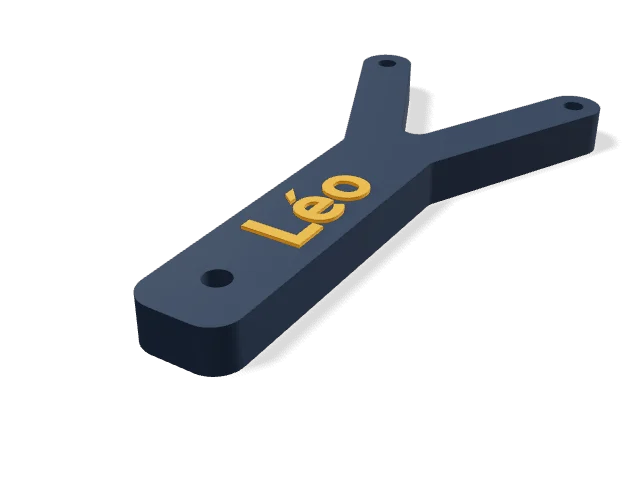
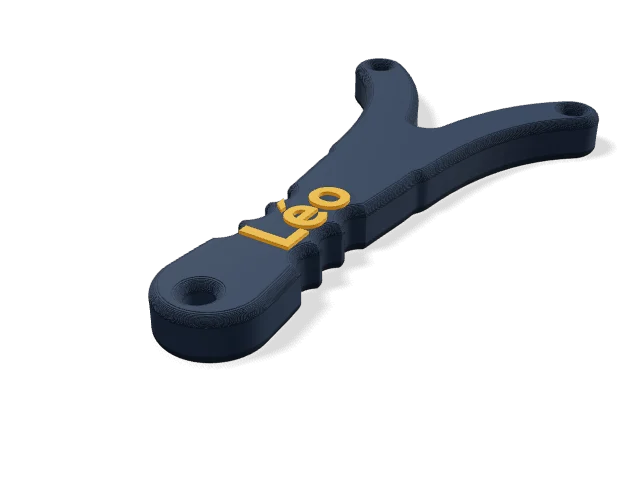
feat: estilingue com forquilha em curva suave, cabo com cintura, marcas de dedo e arestas arredondadas (#238)
Braços em curva quadrática com concordância suave, cabo por corrente de círculos com cintura ajustável, concavidades de dedo opcionais (desligam sozinhas se o cabo é estreito demais, com aviso, e o nome nunca invade) e arestas arredondadas nas duas faces.

diff --git a/src/geometry/models/slingshot.ts b/src/geometry/models/slingshot.ts
@@ -1,7 +1,8 @@
 import { bedMm } from "../bed";
 import type { CS } from "../manifold";
 import { fitInto, outerOnly, scoped } from "../shape2d";
-import { roundedRect, slab, solidMesh, type ModelCtx, type ModelOutput } from "./common";
+import { bevelPrism } from "./bevel";
+import { slab, solidMesh, type ModelCtx, type ModelOutput } from "./common";
 
 export type SlingshotParams = {
   handleLen: number;
@@ -10,6 +11,10 @@ export type SlingshotParams = {
   /** Distância entre as pontas da forquilha (de centro a centro). */
   spread: number;
   armW: number;
+  /** Cintura do cabo: largura no meio em relação à das pontas (1 = reto). */
+  waist: number;
+  /** Marcas de dedo (concavidades) nos lados do cabo. */
+  fingers: boolean;
   thickness: number;
   name: string;
   nameMode: "engraved" | "raised" | "none";
@@ -18,11 +23,14 @@ export type SlingshotParams = {
   nameColor: string;
 };
 
-export const DEFAULT_SLINGSHOT: SlingshotParams = { handleLen: 95, handleW: 30, forkLen: 60, spread: 70, armW: 17, thickness: 14, name: "Léo", nameMode: "raised", depth: 1, color: "#1f2937", nameColor: "#f59e0b" };
+export const DEFAULT_SLINGSHOT: SlingshotParams = { handleLen: 95, handleW: 30, forkLen: 60, spread: 70, armW: 17, waist: 0.8, fingers: true, thickness: 14, name: "Léo", nameMode: "raised", depth: 1, color: "#1f2937", nameColor: "#f59e0b" };
 
 const SEG = 64;
 const TIE_R = 3.2; // furo para amarrar o elástico nas pontas
 const LANYARD_R = 4;
+const FINGER_R = 5.5;
+const FINGER_DEPTH = 3; // quanto a concavidade entra no cabo
+const EDGE = 3; // arredondado das arestas (mm)
 const MIN_ARM = 14;
 const MIN_SPREAD = 25;
 const SMOOTH = 5; // raio de concordância entre o cabo e a forquilha
@@ -38,26 +46,47 @@ export function buildSlingshot(ctx: ModelCtx, p: SlingshotParams): ModelOutput {
     const R = p.armW / 2;
     const yFork = p.handleLen; // onde o cabo vira forquilha
     const tipY = yFork + p.forkLen;
-    const handle = k(k(roundedRect(M, p.handleW, p.handleLen + 2 * R, Math.min(R, p.handleW / 2 - 1))).translate([0, (p.handleLen + 2 * R) / 2 - R]));
+    // cabo: corrente de círculos de raio variável (as pontas largas e a cintura no meio), unidos por cascos
+    const hw = p.handleW / 2;
+    const widthAt = (t: number) => hw * (1 - (1 - p.waist) * Math.sin(Math.PI * Math.min(1, t * 1.05)) ** 1.5); // t: 0 = fundo, 1 = onde vira forquilha
+    const rings = Array.from({ length: 9 }, (_, i) => {
+      const t = i / 8, r = widthAt(t);
+      return k(k(M.CrossSection.circle(r, SEG)).translate([0, hw + t * (p.handleLen - hw)]));
+    });
+    const handle = k(M.CrossSection.union(rings.slice(1).map((c, i) => k(M.CrossSection.hull([rings[i], c])))));
+    // braços em curva suave (quadrática): saem do cabo, abrem e chegam às pontas
     const arm = (sx: number) => {
-      const base = k(k(M.CrossSection.circle(R, SEG)).translate([sx * Math.max(0, p.handleW / 2 - R), yFork]));
-      const tip = k(k(M.CrossSection.circle(R, SEG)).translate([sx * p.spread / 2, tipY]));
-      return k(M.CrossSection.hull([base, tip]));
+      const b0: [number, number] = [sx * hw * 0.55, yFork], t0: [number, number] = [sx * p.spread / 2, tipY], c0: [number, number] = [sx * (hw * 0.6 + (p.spread / 2 - hw * 0.6) * 0.12), yFork + p.forkLen * 0.7];
+      const pts = Array.from({ length: 13 }, (_, i) => {
+        const t = i / 12, u = 1 - t;
+        return [u * u * b0[0] + 2 * u * t * c0[0] + t * t * t0[0], u * u * b0[1] + 2 * u * t * c0[1] + t * t * t0[1]] as [number, number];
+      });
+      const circles = pts.map((q) => k(k(M.CrossSection.circle(R, SEG)).translate(q)));
+      return k(M.CrossSection.union(circles.slice(1).map((c, i) => k(M.CrossSection.hull([circles[i], c])))));
     };
     const raw = k(M.CrossSection.union([handle, arm(-1), arm(1)]));
     // concordância suave entre o cabo e os braços (fecha as quinas de dentro)
-    const body = k(k(raw.offset(SMOOTH, "Round")).offset(-SMOOTH, "Round"));
+    const smooth = k(k(raw.offset(SMOOTH, "Round")).offset(-SMOOTH, "Round"));
+    // marcas de dedo: concavidades redondas nos dois lados do cabo
+    let body: CS = smooth;
+    const fingers = p.fingers && widthAt(0.5) > FINGER_DEPTH + 4.5; // cabo estreito demais: sem concavidades (cortariam o cabo)
+    if (p.fingers && !fingers) warnings.push("O cabo ficou estreito para as marcas de dedo: aumente a largura ou a cintura.");
+    if (fingers) {
+      const cuts = [0.28, 0.42, 0.56].flatMap((t) => [-1, 1].map((sx) => k(k(M.CrossSection.circle(FINGER_R, 32)).translate([sx * (widthAt(t) + FINGER_R - FINGER_DEPTH), hw + t * (p.handleLen - hw)]))));
+      body = k(smooth.subtract(k(M.CrossSection.union(cuts))));
+    }
     const lanyard = k(k(M.CrossSection.circle(LANYARD_R, 32)).translate([0, LANYARD_R + 6]));
     const ties = [-1, 1].map((sx) => k(k(M.CrossSection.circle(TIE_R, 32)).translate([sx * p.spread / 2, tipY])));
     const profile: CS = k(outerOnly(M, body).subtract(k(M.CrossSection.union([lanyard, ...ties]))));
-    let solid = k(profile.extrude(p.thickness));
+    let solid = k(bevelPrism(M, profile, p.thickness, "round", Math.min(EDGE, p.thickness / 3), { bottom: true, top: true }));
     const parts = [] as { name: string; color: string; mesh: ReturnType<typeof solidMesh> }[];
 
     if (p.nameMode !== "none" && p.name.trim()) {
       const raw2 = ctx.text(p.name, 12);
       if (raw2) {
         const rotated = k(k(raw2).rotate(90)); // o nome lê de baixo para cima, ao longo da empunhadura
-        const t = k(fitInto(rotated, p.handleW * 0.62, p.handleLen * 0.55, 0));
+        const free = 2 * Math.max(2, widthAt(0.55) - (fingers ? FINGER_DEPTH : 0) - 1.5); // largura que sobra entre as concavidades
+        const t = k(fitInto(rotated, Math.min(free, p.handleW * 0.62), p.handleLen * 0.5, 0));
         const placed = k(t.translate([0, p.handleLen * 0.55]));
         if (p.nameMode === "engraved") solid = k(solid.subtract(k(k(placed.extrude(p.depth + 0.01)).translate([0, 0, p.thickness - p.depth]))));
         else parts.push({ name: "Nome", color: p.nameColor, mesh: slab(placed, p.depth, p.thickness) });

diff --git a/src/geometry/models/slingshot.test.ts b/src/geometry/models/slingshot.test.ts
@@ -23,7 +23,7 @@ describe("estilingue personalizado (#238)", { timeout: 60_000 }, () => {
     expect(b.max[2] - b.min[2]).toBeCloseTo(P.thickness, 2);
     expect(b.max[0] + b.min[0]).toBeCloseTo(0, 1); // simétrico
     expect(b.max[0] - b.min[0]).toBeCloseTo(P.spread + P.armW, 0);
-    expect(b.max[1] - b.min[1]).toBeCloseTo(P.handleLen + P.forkLen + P.armW, 0);
+    expect(b.max[1] - b.min[1]).toBeCloseTo(P.handleLen + P.forkLen + P.armW / 2, 0);
     const s = solid(m);
     expect(s.decompose().length).toBe(1);
     s.delete();
@@ -64,5 +64,33 @@ describe("estilingue personalizado (#238)", { timeout: 60_000 }, () => {
     const base = sling().warnings!;
     expect(base).toHaveLength(1);
     expect(base[0]).toMatch(/Brinquedo e hobby.*PETG ou ABS.*óculos.*não aponte para pessoas ou animais.*adulto/);
+  });
+
+  test("cabo com cintura: no meio é mais estreito que nas pontas; sem cintura (1) é reto; arestas arredondadas; marcas de dedo tiram material", () => {
+    const widthAt = (m: Mesh, y: number) => { const sd = solid(m); const strip = M.Manifold.cube([200, 1, P.thickness], false).translate([-100, y, 0]); const cut = sd.intersect(strip); const bb = cut.boundingBox(); [sd, strip, cut].forEach((o) => o.delete()); return bb.max[0] - bb.min[0]; };
+    const waisted = part(sling({ fingers: false }), "Estilingue")!.mesh;
+    const mid = widthAt(waisted, P.handleLen * 0.5), end = widthAt(waisted, P.handleLen * 0.12);
+    expect(mid).toBeLessThan(end - 3);
+    const straight = part(sling({ fingers: false, waist: 1 }), "Estilingue")!.mesh;
+    expect(widthAt(straight, P.handleLen * 0.5)).toBeGreaterThan(mid + 3);
+    // arestas: a seção no topo é menor que a do meio da espessura (arredondado)
+    const sd = solid(waisted);
+    const top = sd.slice(P.thickness - 0.1), midC = sd.slice(P.thickness / 2);
+    expect(top.area()).toBeLessThan(midC.area() - 20);
+    [sd, top, midC].forEach((o) => o.delete());
+    expect(vol(part(sling({ fingers: true }), "Estilingue")!.mesh)).toBeLessThan(vol(waisted) - 30);
+  });
+
+  test("cabo estreito demais para as concavidades: sem elas, com aviso; o nome nunca sai das bordas (uma peça só)", () => {
+    const thin = sling({ handleW: 22, waist: 0.6 });
+    expect(thin.warnings!.join(" ")).toMatch(/estreito para as marcas de dedo/);
+    for (const o of [thin, sling({ handleW: 22, waist: 0.6, nameMode: "raised" }), sling()]) {
+      const nome = o.models[0].parts.find((x) => x.name === "Nome");
+      if (!nome) continue;
+      const nb = meshBounds([nome.mesh])!, sb = meshBounds([o.models[0].parts[0].mesh])!;
+      expect(nb.min[0]).toBeGreaterThan(sb.min[0] + 1);
+      expect(nb.max[0]).toBeLessThan(sb.max[0] - 1);
+    }
+    expect(sling().warnings!.join(" ")).not.toMatch(/estreito para as marcas/);
   });
 });

diff --git a/src/geometry/models/bevel.ts b/src/geometry/models/bevel.ts
@@ -1,0 +1,38 @@
+import type { CS, ManifoldToplevel, Solid } from "../manifold";
+import { scoped } from "../shape2d";
+
+export type Edge = "none" | "chamfer" | "round";
+
+const STEP = 0.2; // mm de altura de cada degrau do chanfro: a mesma ordem da camada de impressão
+
+/** Quanto o contorno recua (mm) a z mm do começo da aresta de raio/chanfro `c`. */
+function inset(edge: Edge, c: number, z: number): number {
+  if (edge === "chamfer") return c - z;
+  return c - Math.sqrt(Math.max(0, c * c - (c - z) * (c - z)));
+}
+
+/**
+ * Prisma do contorno `outline` com altura `h`, com a aresta de baixo e/ou a de cima chanfrada ou arredondada (`c` mm).
+ * O perfil sai em degraus de 0,2 mm (a altura de uma camada), então o fatiador vê a curva inteira. Quem chama dá delete().
+ */
+export function bevelPrism(M: ManifoldToplevel, outline: CS, h: number, edge: Edge, c: number, ends: { bottom?: boolean; top?: boolean }): Solid {
+  return scoped((k) => {
+    const cc = edge === "none" ? 0 : Math.min(c, h / 2 - 0.01);
+    if (cc <= 0) return outline.extrude(h);
+    const n = Math.max(1, Math.round(cc / STEP));
+    const slab = (z0: number, z1: number, inner: number) => {
+      const src = inner ? k(outline.offset(-inner, "Round")) : outline;
+      return k(src.extrude(z1 - z0)).translate([0, 0, z0]);
+    };
+    const pieces: Solid[] = [];
+    const lo = ends.bottom ? cc : 0, hi = ends.top ? cc : 0;
+    pieces.push(k(slab(lo, h - hi, 0)));
+    for (let i = 0; i < n; i++) {
+      const z0 = (i * cc) / n, z1 = ((i + 1) * cc) / n;
+      const ins = inset(edge, cc, (z0 + z1) / 2);
+      if (ends.bottom) pieces.push(k(slab(z0, z1, ins)));
+      if (ends.top) pieces.push(k(slab(h - z1, h - z0, ins)));
+    }
+    return M.Manifold.union(pieces);
+  });
+}

diff --git a/src/tools/models/catalog/homeStorage.ts b/src/tools/models/catalog/homeStorage.ts
@@ -197,6 +197,8 @@ export const HOME_STORAGE_MODELS: ModelDef[] = [
           num("forkLen", "Comprimento da forquilha", 35, 90, { step: 1 }),
           num("spread", "Abertura entre as pontas", 25, 100, { step: 1, hint: "De centro a centro dos furos do elástico." }),
           num("armW", "Largura dos braços", 12, 26, { step: 0.5, hint: "Menos de 14 mm quebra com facilidade." }),
+          num("waist", "Cintura do cabo", 0.6, 1, { step: 0.05, unit: "", hint: "1 deixa o cabo reto; 0,8 estreita no meio e firma a mão." }),
+          bool("fingers", "Marcas de dedo nos lados do cabo"),
           num("thickness", "Espessura", 8, 20, { step: 1 }),
           color("color", "Estilingue"),
           color("nameColor", "Nome (em relevo)"),

diff --git a/docs/QA-modelos.md b/docs/QA-modelos.md
@@ -23,7 +23,7 @@ Peça maior que a mesa de 256 mm do A1 conta como **aviso** quando o app avisa n
 impressoras de mesa maior); sem o aviso do app, é **falha**.
 
 
-**Total:** 334 casos · 245 ok · 89 com aviso · 0 com falha · 0 n/a
+**Total:** 334 casos · 246 ok · 88 com aviso · 0 com falha · 0 n/a
 
 ## Forja
 
@@ -298,11 +298,11 @@ impressoras de mesa maior); sem o aviso do app, é **falha**.
 | Quadro em camadas (shadowbox) (shadowbox) | máximo | ⚠ aviso | Bambu ✓ · Orca ✓ · Projeto Bambu ✓ | 650 | 555,6 | 4 | – | o conjunto arrumado ocupa 240,0 × 1000,2 mm: passa da mesa de 256 mm; não coube numa placa: 4 placas; app: Monte na ordem dos números: a 1 é o fundo e a 4 fica na frente. Cole as bordas; a profundidade total fica em 52 mm.; app: 4 área(s) soltas ganharam uma ponte fina (1.6 mm) até a moldura para não caírem; corte a ponte com estilete se atrapalhar.; app: As 4 placas não cabem juntas na mesa de 256 mm: use "Mesa por cor" (uma placa por mesa). |
 | Quadro em camadas (shadowbox) (shadowbox) | mínimo | ⚠ aviso | Bambu ✓ · Orca ✓ · Projeto Bambu ✓ | 71 | 25,8 | 1 | – | "Camada 4 de 4 (frente)": parede/traço < 0,4 mm em Z 0,2, 0,5, 0,9, 1,3, 1,6 mm; Orca: torre de purga passa da mesa na posição padrão do CLI (na tela, arraste a torre ou use Arrumar); Projeto Bambu: torre de purga passa da mesa na posição padrão do CLI (na tela, arraste a torre ou use Arrumar); app: Monte na ordem dos números: a 1 é o fundo e a 4 fica na frente. Cole as bordas; a profundidade total fica em 7 mm.; app: 4 área(s) soltas ganharam uma ponte fina (1.6 mm) até a moldura para não caírem; corte a ponte com estilete se atrapalhar. |
 | Quadro em camadas (shadowbox) (shadowbox) | padrão | ⚠ aviso | Bambu ✓ · Orca ✓ · Projeto Bambu ✓ | – | – | – | – | Bambu: torre de purga em cima de uma peça depois do --arrange do CLI (na tela, arraste a torre ou use Arrumar); Orca: torre de purga em cima de uma peça depois do --arrange do CLI (na tela, arraste a torre ou use Arrumar); Projeto Bambu: torre de purga em cima de uma peça depois do --arrange do CLI (na tela, arraste a torre ou use Arrumar); app: Monte na ordem dos números: a 1 é o fundo e a 4 fica na frente. Cole as bordas; a profundidade total fica em 17 mm.; app: 4 área(s) soltas ganharam uma ponte fina (1.6 mm) até a moldura para não caírem; corte a ponte com estilete se atrapalhar. |
-| Estilingue personalizado (slingshot) | máximo | ⚠ aviso | Bambu ✓ · Orca ✓ · Projeto Bambu ✓ | 321 | 309,0 | 1 | – | Orca: torre de purga em cima de uma peça depois do --arrange do CLI (na tela, arraste a torre ou use Arrumar); app: Brinquedo e hobby, sem garantia de resistência: imprima deitado, como no arquivo (as camadas ficam no plano da forquilha, que é como ela é puxada), em PETG ou ABS, com 5 paredes e 100% de preenchimento. Use óculos, não aponte para pessoas ou animais e não deixe com criança sem um adulto. |
-| Estilingue personalizado (slingshot) | mínimo | ✅ ok | Bambu ✓ · Orca ✓ · Projeto Bambu ✓ | 38 | 25,2 | 1 | – | app: Braço fino (12 mm): a forquilha pode quebrar na primeira esticada. Use 14 mm ou mais.; app: Brinquedo e hobby, sem garantia de resistência: imprima deitado, como no arquivo (as camadas ficam no plano da forquilha, que é como ela é puxada), em PETG ou ABS, com 5 paredes e 100% de preenchimento. Use óculos, não aponte para pessoas ou animais e não deixe com criança sem um adulto. |
-| Estilingue personalizado (slingshot) | nome gravado | ✅ ok | Bambu ✓ · Orca ✓ | 117 | 93,7 | 1 | – | app: Brinquedo e hobby, sem garantia de resistência: imprima deitado, como no arquivo (as camadas ficam no plano da forquilha, que é como ela é puxada), em PETG ou ABS, com 5 paredes e 100% de preenchimento. Use óculos, não aponte para pessoas ou animais e não deixe com criança sem um adulto. |
-| Estilingue personalizado (slingshot) | padrão | ✅ ok | Bambu ✓ · Orca ✓ · Projeto Bambu ✓ | 122 | 96,8 | 1 | – | app: Brinquedo e hobby, sem garantia de resistência: imprima deitado, como no arquivo (as camadas ficam no plano da forquilha, que é como ela é puxada), em PETG ou ABS, com 5 paredes e 100% de preenchimento. Use óculos, não aponte para pessoas ou animais e não deixe com criança sem um adulto. |
-| Estilingue personalizado (slingshot) | sem nome | ✅ ok | Bambu ✓ · Orca ✓ | 115 | 94,1 | 1 | – | app: Brinquedo e hobby, sem garantia de resistência: imprima deitado, como no arquivo (as camadas ficam no plano da forquilha, que é como ela é puxada), em PETG ou ABS, com 5 paredes e 100% de preenchimento. Use óculos, não aponte para pessoas ou animais e não deixe com criança sem um adulto. |
+| Estilingue personalizado (slingshot) | máximo | ✅ ok | Bambu ✓ · Orca ✓ · Projeto Bambu ✓ | 311 | 289,1 | 1 | – | app: Brinquedo e hobby, sem garantia de resistência: imprima deitado, como no arquivo (as camadas ficam no plano da forquilha, que é como ela é puxada), em PETG ou ABS, com 5 paredes e 100% de preenchimento. Use óculos, não aponte para pessoas ou animais e não deixe com criança sem um adulto. |
+| Estilingue personalizado (slingshot) | mínimo | ✅ ok | Bambu ✓ · Orca ✓ · Projeto Bambu ✓ | 34 | 20,3 | 1 | – | app: O cabo ficou estreito para as marcas de dedo: aumente a largura ou a cintura.; app: Braço fino (12 mm): a forquilha pode quebrar na primeira esticada. Use 14 mm ou mais.; app: Brinquedo e hobby, sem garantia de resistência: imprima deitado, como no arquivo (as camadas ficam no plano da forquilha, que é como ela é puxada), em PETG ou ABS, com 5 paredes e 100% de preenchimento. Use óculos, não aponte para pessoas ou animais e não deixe com criança sem um adulto. |
+| Estilingue personalizado (slingshot) | nome gravado | ✅ ok | Bambu ✓ · Orca ✓ | 113 | 81,0 | 1 | – | app: Brinquedo e hobby, sem garantia de resistência: imprima deitado, como no arquivo (as camadas ficam no plano da forquilha, que é como ela é puxada), em PETG ou ABS, com 5 paredes e 100% de preenchimento. Use óculos, não aponte para pessoas ou animais e não deixe com criança sem um adulto. |
+| Estilingue personalizado (slingshot) | padrão | ✅ ok | Bambu ✓ · Orca ✓ · Projeto Bambu ✓ | 117 | 83,9 | 1 | – | app: Brinquedo e hobby, sem garantia de resistência: imprima deitado, como no arquivo (as camadas ficam no plano da forquilha, que é como ela é puxada), em PETG ou ABS, com 5 paredes e 100% de preenchimento. Use óculos, não aponte para pessoas ou animais e não deixe com criança sem um adulto. |
+| Estilingue personalizado (slingshot) | sem nome | ✅ ok | Bambu ✓ · Orca ✓ | 110 | 81,3 | 1 | – | app: Brinquedo e hobby, sem garantia de resistência: imprima deitado, como no arquivo (as camadas ficam no plano da forquilha, que é como ela é puxada), em PETG ou ABS, com 5 paredes e 100% de preenchimento. Use óculos, não aponte para pessoas ou animais e não deixe com criança sem um adulto. |
 | Espaçador, calço ou arruela (spacer) | máximo | ⚠ aviso | Bambu ✓ · Orca ✓ | – | – | – | – | "Arruelas" não cabe na mesa de 256 mm (1227,0 × 1227,0 × 30,0 mm); Bambu recusa na mesa de 256 mm do A1 (o app avisa); Orca recusa na mesa de 256 mm do A1 (o app avisa); app: As 100 peças ocupam 1227 mm: passam da mesa de 256 mm. Diminua a quantidade ou imprima em mais de uma vez. |
 | Espaçador, calço ou arruela (spacer) | mínimo | ✅ ok | Bambu ✓ · Orca ✓ | 1 | 0,1 | 1 | – | – |
 | Espaçador, calço ou arruela (spacer) | padrão | ✅ ok | Bambu ✓ · Orca ✓ | 7 | 3,2 | 1 | – | – |

diff --git a/CHANGELOG.md b/CHANGELOG.md
@@ -4,7 +4,7 @@ Cada versão aparece para a usuária na tela "O que há de novo" depois da atual
 Formato: `## <versão> — <data>` e itens `- …` em linguagem simples.
 
 ## Próxima versão (ainda não lançada)
-- **Estilingue personalizado (#238)**: em Modelos prontos › Brinquedos › Estilingue. Peça plana em Y com cabo arredondado, nome em relevo (outra cor) ou gravado na empunhadura, furos para amarrar o elástico nas pontas e um furo de cordão; você ajusta cabo, forquilha, abertura, largura dos braços e espessura. É brinquedo e hobby: a tela avisa dos cuidados (PETG ou ABS, 5 paredes, 100% de preenchimento, imprimir deitado, óculos, nunca apontar para pessoas ou animais, criança só com adulto) e de braço fino demais.
+- **Estilingue personalizado (#238)**: em Modelos prontos › Brinquedos › Estilingue. Peça plana em Y com forquilha em curva suave, cabo com cintura e marcas de dedo opcionais, arestas arredondadas, nome em relevo (outra cor) ou gravado na empunhadura, furos para amarrar o elástico nas pontas e um furo de cordão; você ajusta cabo, forquilha, abertura, largura dos braços e espessura. É brinquedo e hobby: a tela avisa dos cuidados (PETG ou ABS, 5 paredes, 100% de preenchimento, imprimir deitado, óculos, nunca apontar para pessoas ou animais, criança só com adulto) e de braço fino demais.
 
 ## 0.12.6 — 2026-10-16
 - **Calculadora: preços de marketplace com as taxas de 2026 e quatro contas que erravam (#242)**: o canal de venda agora aceita **taxas por faixa de preço** (comissão e taxa fixa que mudam conforme o preço), além do frete obrigatório acima de um valor. A **Shopee** vem de fábrica com a regra de 2026 (20% + R$ 4,50 até R$ 79,99; 14% + R$ 16, R$ 20 ou R$ 26 acima, sem teto) e o **Mercado Livre** clássico e premium com o custo por unidade por faixa abaixo de R$ 79 e o frete por sua conta a partir dele (o R$ 20 é só um exemplo: use o de uma etiqueta real). Cada canal mostra a data em que a regra foi conferida e o que confirmar na central do vendedor, e tudo é editável em Preferências → Canais de venda; quem nunca mexeu nas taxas de fábrica antigas passa para as novas sozinho. Com custo de R$ 40 e margem de 30%, a Shopee sugeria R$ 88,00 (e deixava só 22%); agora sugere R$ 107,15. Também: **Salvar como produto** leva a purga digitada e o kWh medido (antes o produto saía com R$ 25,26 onde a calculadora mostrava R$ 55,58); **Levar para a Calculadora** troca o "Peças na mesa" (antes o custo saía dividido pelas peças da conta anterior); e cor sem filamento cadastrado entra com o preço médio do seu estoque (ou R$ 100/kg), marcada "preço estimado: confira", em vez de R$ 0,00
